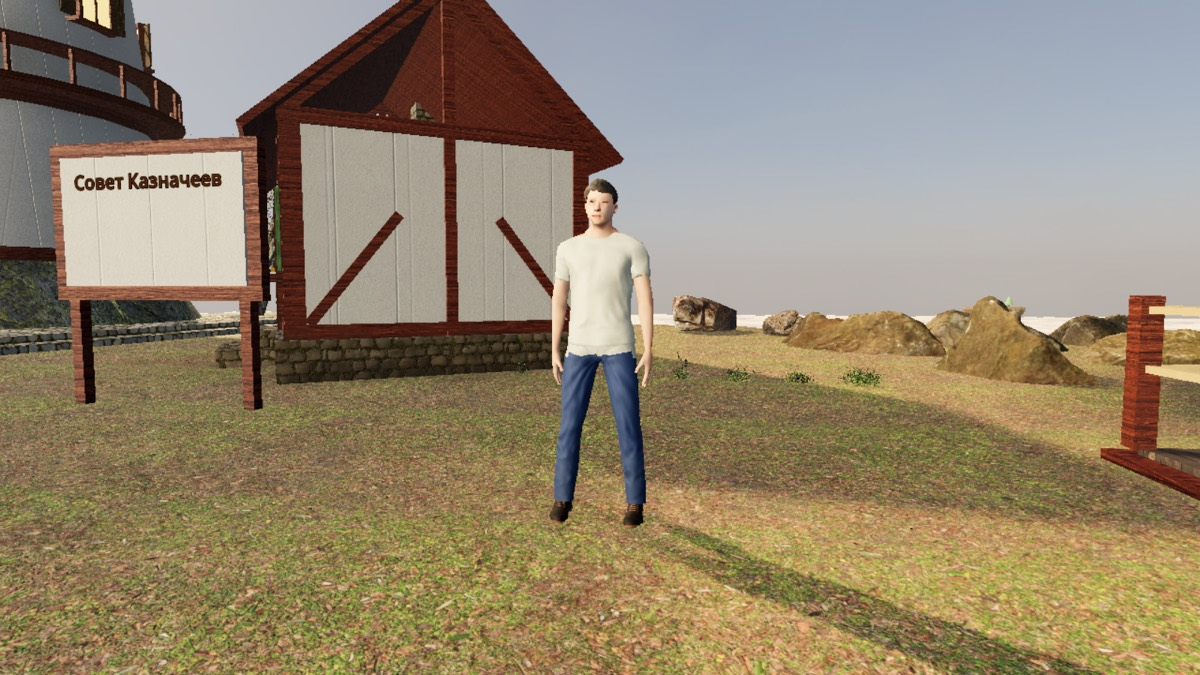
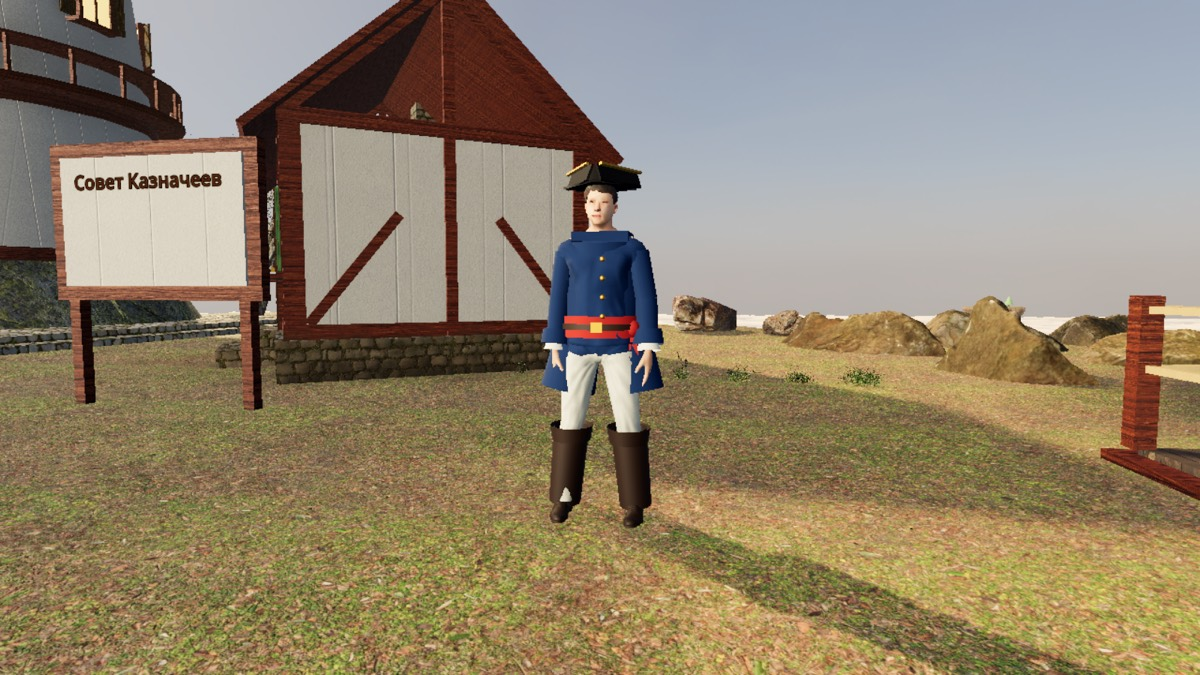
G3D polish: costumes before/after, docs

diff --git a/docs/demo/G3D-polish.md b/docs/demo/G3D-polish.md
@@ -5,7 +5,7 @@ through walls, the houses were boxes and the walk was a bob. This pass: an autom
 world and lists every such problem with a picture, then the fixes, then the same audit again.
 
 **Result: 451 problems before → 0 after**, on 1270 grid points and 8384 walks (before: 1204 points, 8000 walks).
-GUT: 59 → 71 tests, all green. No contract change, the 2D game is untouched, the M3 game flow is untouched.
+GUT: 59 → 74 tests, all green. No contract change, the 2D game is untouched, the M3 game flow is untouched.
 
 ## 1. The audit
 
@@ -227,7 +227,40 @@ but one (37 ms once at the wharf). The 1%-low in the three heaviest harbour view
 53–57 fps, so "never under 60" is **not** reached there. The houses view is slower than before (88 → 73) because
 there is now something to draw.
 
-## 5. Not verified, and what needs Aika
+## 5. People: dressed for the age of sail (`scripts/costume.gd`)
+
+The MakeHuman people came in T-shirts, jeans and a fedora. Blender is not on this machine, so the models were not
+rebuilt; `Costume` dresses them when they are created:
+- their own clothes lose the denim and print textures and get plain period cloth (the folds of the normal map stay);
+  the sailor's shirt gets stripes from a small shader; the fedora is hidden;
+- our own meshes go on top, each piece rigidly skinned to one bone and all of them one mesh per person, so tails,
+  sleeves and boots follow the gait and a costume costs a draw call per material.
+
+| Role | Wears |
+|---|---|
+| Captain | tricorn with a brass edge, long navy coat with tails and brass buttons, turned-back cuffs with the shirt showing, red sash under a belt with a buckle, pale breeches, sea boots with folded tops |
+| Sailor | striped shirt with wide sleeves, bandana knotted at the back, sash, canvas slops to mid calf |
+| Trader (Mara, the post keeper, brokers) | long gown and skirt, linen apron and sleeves, shawl, kerchief |
+| Townsman (the Chronicler, strollers) | brown coat with tails, breeches with stockings and garters, soft felt hat |
+| Child | linen shirt, brown breeches, sash and bandana |
+
+No jeans, T-shirts or logos; no new assets; generic period dress, not a character from a game or a film.
+`godot --path game3d -- --people=<dir>` makes the line-up (`--plain` shows the people as downloaded).
+
+| Before | After |
+|---|---|
+| ![](g3d-polish/before/people-plain-front.jpg) | ![](g3d-polish/after/people-dressed-front.jpg) |
+| ![](g3d-polish/before/people-plain-back.jpg) | ![](g3d-polish/after/people-dressed-back.jpg) |
+| ![](g3d-polish/before/people-plain-captain.jpg) | ![](g3d-polish/after/people-dressed-captain.jpg) |
+
+The gait pictures in section 3 show the captain in the costume, walking and running. Frame rate with the costumes on
+is the same within noise (harbour captain 73 fps, the square 64–65).
+
+Limits: the pieces are simple shapes (tubes, boxes, domes) on a T-shirt-and-trousers body, so up close a coat is a
+coat-coloured shirt with tails, the bandana reads as a cap, and a boot top can clip a trouser leg. Real period clothes
+from MakeHuman would need Blender + MPFB and a rebuild of the four models.
+
+## 6. Not verified, and what needs Aika
 - The gait was checked on still frames and by a unit test, not by eye in motion. Play it.
 - The M3 self-run demo (`--demo`) was not re-run against a live exchange (ports busy): its screenshots in
   `docs/demo/M3.md` show the old harbour. The Act I spots moved onto the wharf; `demo_go` uses the same spot table.
@@ -235,6 +268,7 @@ there is now something to draw.
   in it.
 - Frame rate was measured on one machine. While the game window is covered macOS stops drawing it; `--fps` waits for
   a drawn frame and says so if there is none.
+- The costumes were checked on still pictures (line-up, walk, run), not in play.
 - **Animation source**: real walk/run/idle clips would look better than a computed gait. Poly Haven and ambientCG
   have none; MakeHuman gives the rig, not clips. Quaternius (an allowed source) publishes CC0 animation packs, but I
   did not download or check one: Quaternius has no stable direct URLs for `make assets` (see `game3d/ASSETS.md`) and the

diff --git a/game3d/ASSETS.md b/game3d/ASSETS.md
@@ -69,6 +69,7 @@ How they are used: `scripts/assets.gd` (paths, fallbacks), `scripts/proc.gd` (`_
 |---|---|---|
 | Island, windmill, wharf, pier and figure meshes; fallback look of everything | Generated in code: `scripts/proc.gd`, `scripts/archipelago.gd`, `scripts/board.gd`, `scripts/hall_room.gd` | Our own work, CC0 |
 | Modular half-timbered houses (plinth, frame, windows with shutters, door, tiled roof, chimney, sign) | Generated in code: `scripts/houses.gd`, `scripts/kit.gd`; materials are the Poly Haven sets above | Our own work, CC0 |
+| Period costumes of the people (tricorn, bandana, coat and tails, sash, slops, skirt, boots, stockings; cloth and stripe materials) | Generated in code: `scripts/costume.gd`, skinned to the MakeHuman rig | Our own work, CC0 |
 | Grime and wear decal textures | Painted in code from `FastNoiseLite`: `scripts/decals.gd` | Our own work, CC0 |
 | Colliders, edge fences, navmesh | Generated in code: `scripts/solid.gd`, `scripts/nav.gd` (Godot `NavigationServer3D`) | Our own work; engine MIT |
 | Cloud sea, sail, terrain shaders | `shaders/cloud_sea.gdshader`, `shaders/sail.gdshader`, `shaders/terrain.gdshader` | Our own work, CC0 |
@@ -86,7 +87,7 @@ No sounds or music. Nothing is taken from existing games: the Poly Haven models 
 `sailor`, `trader`, `oldman`, `child` in `assets/models/people/*.glb` are built by `game3d/tools/people/build.sh`
 (Blender 4.5 + MPFB 2 add-on + MakeHuman CC0 system assets, makehumancommunity.org). The base mesh, rig and every
 clothes, hair, eye and skin asset used are CC0; the clothes are recoloured and the pose set as rest pose by
-`restyle.py`. MPFB itself is GPL, its output is not. The files are git-ignored like the rest; without them the
+`restyle.py`. In the game `Costume` replaces the look of those clothes (no denim, prints or fedora) and adds period pieces. MPFB itself is GPL, its output is not. The files are git-ignored like the rest; without them the
 procedural person stands in.
 
 ## Animation

diff --git a/game3d/README.md b/game3d/README.md
@@ -20,7 +20,7 @@ falls, spawns and spots are free, colliders follow the shapes, villagers stay on
 
 ## World audit and measurements (`docs/demo/G3D-polish.md`)
 `godot --path game3d -- --audit=<dir>` (every problem with a picture, `audit.json`), `--views=<dir>` (fixed views),
-`--gait=<dir>` (idle, walk, run, a doorstep), `--fps=<file.json>` (run at 1920x1080), `--profile=1` (cost of each
+`--gait=<dir>` (idle, walk, run, a doorstep), `--people=<dir>` (line-up of the costumes; `--plain` = as downloaded), `--fps=<file.json>` (run at 1920x1080), `--profile=1` (cost of each
 effect). `--sdfgi` turns SDFGI on (off by default: it cost ~9 fps and a long frame after every camera jump).
 
 ## Layout
@@ -35,6 +35,7 @@ effect). `--sdfgi` turns SDFGI on (off by default: it cost ~9 fps and a long fra
 | `scripts/game.gd` | Autoload `Game`: the day, its log, plan, Anchor, sync with the exchange, report-season watch |
 | `scripts/ui/` | `GameHud` (flow bar, lesson cards, glossary, report banner), `PlanPanel` |
 | `scripts/mover.gd`, `walker.gd`, `captain.gd` | Walking for everybody: acceleration, slopes, stairs (`Mover`); computed gait with foot IK — idle, walk, run (`Walker`); the captain with a spring-arm camera |
+| `scripts/costume.gd` | Period dress for the MakeHuman people: re-materials their clothes and adds skinned pieces (roles: captain, sailor, trader, townsman, child) |
 | `scripts/nav.gd`, `villager.gd` | Navmesh baked from the colliders; villagers who walk it and steer round each other |
 | `scripts/solid.gd`, `kit.gd`, `houses.gd`, `decals.gd`, `hall_room.gd` | Colliders that follow shapes; one mesh per building; modular half-timbered houses; grime decals; the hall interior |
 | `scripts/world_probe.gd`, `audit.gd` | The world audit (`WorldProbe`) and its runs |

diff --git a/docs/STATUS.md b/docs/STATUS.md
@@ -4,10 +4,12 @@ Updated: 2026-11-16, G3D polish after M4. Demos: `docs/demo/M4.md`, `docs/demo/G
 
 ## G3D polish (after M4) — `docs/demo/G3D-polish.md`
 - World audit (`WorldProbe`, `--audit`): 451 problems before → 0 after on 1270 grid points, 8384 walks, 172 objects
-  (holes, falls, walk-through buildings and props, floating props, z-fighting, missing LODs). GUT 59 → 71.
+  (holes, falls, walk-through buildings and props, floating props, z-fighting, missing LODs). GUT 59 → 74.
 - Every building and prop has a collider that follows its shape; wharf and pier decks with floors; invisible fences
   round the islands and decks; spring-arm camera stops at walls.
 - Modular half-timbered houses, windmill and hall interior rebuilt; grime decals. No new assets.
+- People dressed for the age of sail in code (`Costume`): captain in tricorn, coat, sash and boots; sailors in stripes,
+  bandana and slops; traders and townsfolk in period dress. No jeans, T-shirts, fedora.
 - Walking: acceleration, run (Shift), stairs and slopes; computed gait with foot IK (idle/walk/run); villagers on a
   navmesh with avoidance.
 - Harbour fps at 1080p (Apple M5): average 65–109 (was 55–118 with 45–65 ms frames after a camera jump); the long

diff --git a/DECISIONS.md b/DECISIONS.md
@@ -307,4 +307,9 @@ Build and CI
   three heaviest views, so a hard 60 floor is not reached there.
 - macOS does not draw a covered window; a frame-time loop then measures the idle sleep (145 "fps"). `--fps` counts
   drawn frames and warns.
+- People's clothes: no Blender here, so the MakeHuman models are not rebuilt. `Costume` re-materials their own clothes
+  (plain cloth, stripes by shader, original normal map kept) and adds our own period pieces as one mesh per person,
+  each piece skinned rigidly to a single bone (coat tails and skirt halves hang from the thighs so they follow the
+  stride). Roles: captain, sailor, trader, townsman, child; `who` picks the body, `role` the dress. `--plain` shows the
+  people as downloaded. Packed arrays inside a Dictionary are values in GDScript — write them back after appending.
 
